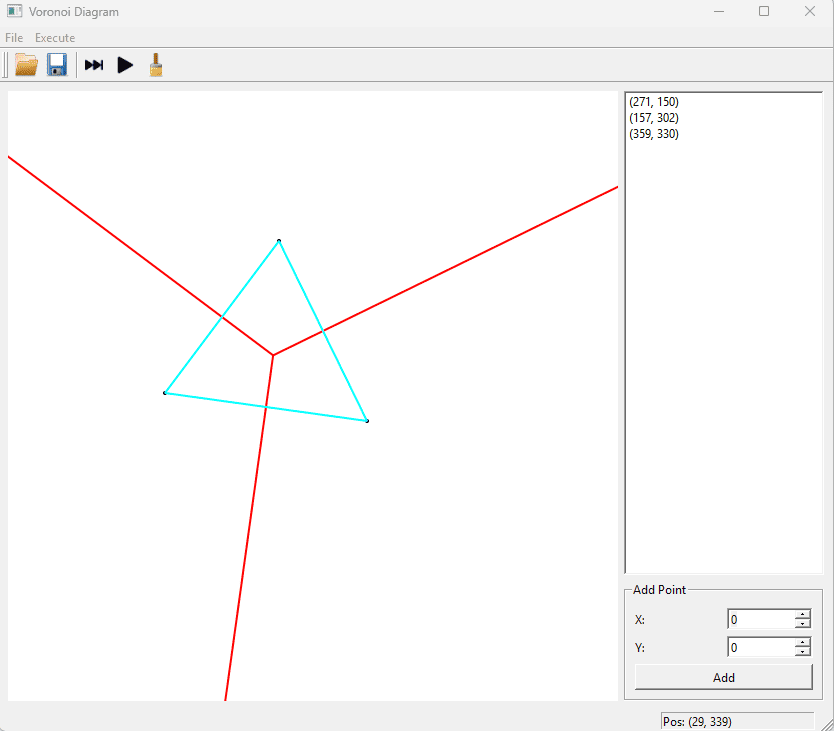
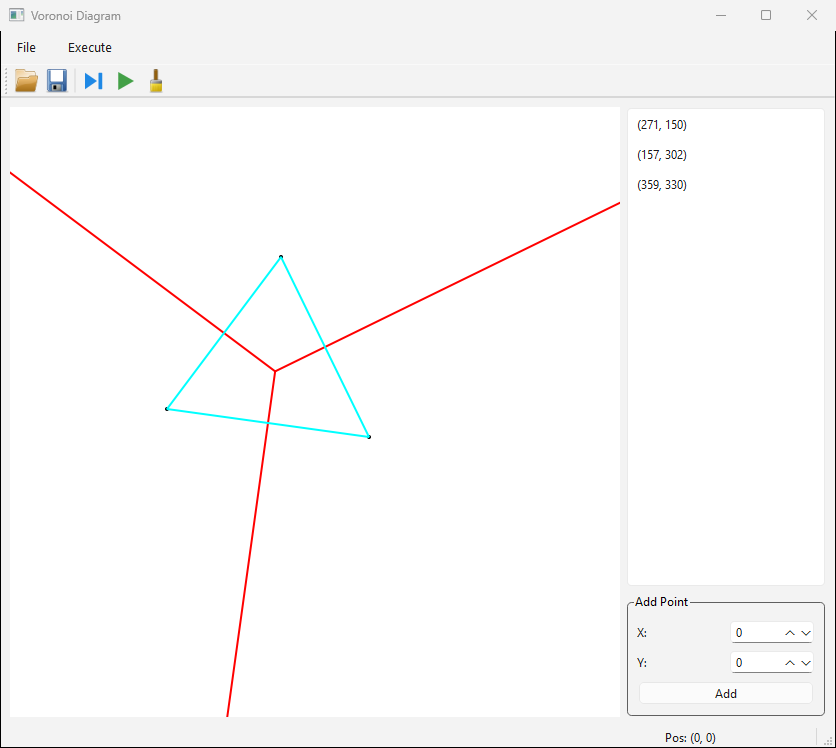
Retake the window screenshots and fix the Qt version in the report
- UI.png, step.png and step1..7.png show the new toolbar icons; same
  points and steps as before, light theme, Step still boxed in red
- Update the width/height of UI.png and step.png in the report
- The introduction and the test environment table said Qt 6.10.0 and
  Qt Creator 18.0.0; the build section, README and merged source say
  6.10.1, which is the installed version (Qt Creator 18.0.1)

diff --git a/M143040074.html b/M143040074.html
@@ -198,7 +198,7 @@ footer { max-width: 1120px; margin: 0 auto; padding: 16px 40px 36px; border-top:
   <h2><span class="n">1</span>簡介</h2>
   <p class="lead">本程式以 C++ 與 Qt 框架實作課本的 Voronoi diagram 演算法：1 到 3 點作為 base case，以暴力法直接求解；4 點以上採用 divide and conquer，遞迴求出左右兩半的 Voronoi diagram 後再 merge。</p>
   <ul>
-    <li>以 Windows 11、C++、Qt 6.10.0 框架實作（Qt Creator 18.0.0 IDE）。</li>
+    <li>以 Windows 11、C++、Qt 6.10.1 框架實作（Qt Creator 18.0.1 IDE）。</li>
     <li>能夠繪製 Voronoi diagram，並支援 convex hull 的繪製。</li>
     <li>可以點擊 Run 直接顯示最終結果，也能以 Step by step 觀察每一步的變化。</li>
   </ul>
@@ -245,7 +245,7 @@ E 193 261 610 481</code></pre>
 
   <h3 id="spec-ui"><span class="n">2.2</span>功能規格與介面規格</h3>
   <figure class="shot">
-    <a class="zoom" href="img/UI.png" target="_blank" rel="noopener"><img src="img/UI.png" alt="程式介面：左側為畫布，右側為點座標列表與 Add Point 欄位" width="834" height="731"></a>
+    <a class="zoom" href="img/UI.png" target="_blank" rel="noopener"><img src="img/UI.png" alt="程式介面：左側為畫布，右側為點座標列表與 Add Point 欄位" width="836" height="748"></a>
     <figcaption><b>圖 1</b>程式介面</figcaption>
   </figure>
   <table>
@@ -318,7 +318,7 @@ mingw32-make</code></pre>
   <h3 id="usage"><span class="n">3.3</span>使用說明</h3>
   <p>以任一種輸入方式（表 1）加入點，例如直接在畫布上任意點擊四個點，再點擊工具列上紅框標示的 Step，即可逐步觀察 merge 的過程，每次 merge 共有 7 個 step；點擊 Run 則直接畫出最終結果。</p>
   <figure class="shot">
-    <a class="zoom" href="img/step.png" target="_blank" rel="noopener"><img src="img/step.png" alt="工具列上的 Step 按鈕以紅框標示" width="835" height="729"></a>
+    <a class="zoom" href="img/step.png" target="_blank" rel="noopener"><img src="img/step.png" alt="工具列上的 Step 按鈕以紅框標示" width="836" height="748"></a>
     <figcaption><b>圖 2</b>Step 按鈕位置</figcaption>
   </figure>
   <div class="plates">
@@ -484,8 +484,8 @@ public:
       <tr><td class="nowrap">處理器</td><td>Intel(R) Core(TM) i5-14500（2.60 GHz）</td></tr>
       <tr><td class="nowrap">記憶體</td><td>8.00 GB（7.64 GB 可用）</td></tr>
       <tr><td class="nowrap">作業系統</td><td>Windows 11 Education 25H2，64 位元，x64 處理器</td></tr>
-      <tr><td class="nowrap">開發工具</td><td>Qt Creator 18.0.0</td></tr>
-      <tr><td class="nowrap">框架</td><td>Qt 6.10.0</td></tr>
+      <tr><td class="nowrap">開發工具</td><td>Qt Creator 18.0.1</td></tr>
+      <tr><td class="nowrap">框架</td><td>Qt 6.10.1</td></tr>
       <tr><td class="nowrap">語言</td><td>C++</td></tr>
       <tr><td class="nowrap">編譯器</td><td>GCC 13.1.0（64-bit）</td></tr>
     </tbody>
